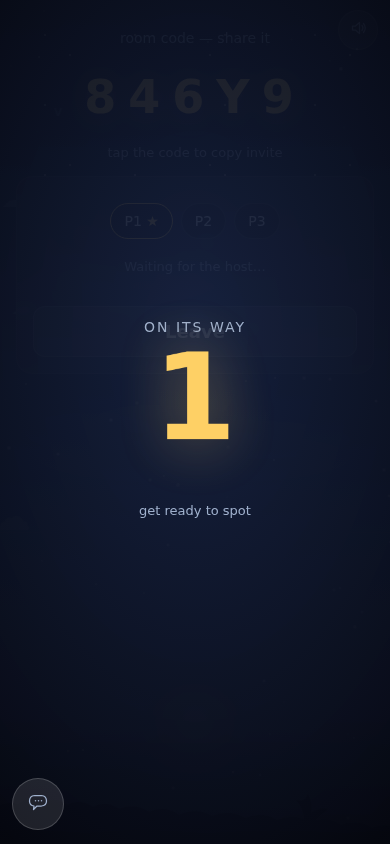
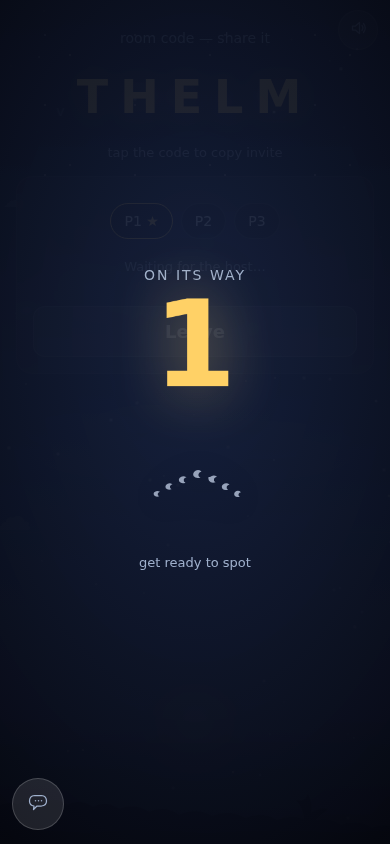
Merge flash/art-qa-v1 + promote art to default (v12)
- merged Flash branch after contract review + independent re-verification
  (rules 62/62, verify-art 18/18, graphics 12/12, chat-theme 12/12, timers 8/8 on :3200)
- live public-URL vision check passed (both themes, art=1)
- art now ON by default; ?art=0 or rarebird-art=0 escapes to emoji; v12 handshake

diff --git a/prototype/verify/verify-timers-3200.js b/prototype/verify/verify-timers-3200.js
@@ -1,0 +1,89 @@
+// Regression suite for the 2026-10-23 field bugs:
+//  1. Early "all_locked" round end must NOT shorten the next round (stale timer bug).
+//  2. Host timer setting (20/30/45s) must be honored.
+//  3. Judge flow: invalid-looking answer → checking → admitted+locked via mock judge.
+//  4. Full game still works end-to-end with the new client.
+const { chromium } = require('/data/workspace/research/node_modules/playwright-core');
+const sleep = ms => new Promise(r => setTimeout(r, ms));
+let pass = 0, fail = 0;
+const t = (n, c, d = '') => { if (c) { pass++; console.log(`  ok  ${n}`); } else { fail++; console.log(`FAIL  ${n} ${d}`); } };
+(async () => {
+  const browser = await chromium.launch({ executablePath: '/usr/bin/chromium', headless: true, args: ['--no-sandbox'] });
+  const mk = async () => { const c = await browser.newContext({ viewport: { width: 390, height: 844 } }); const p = await c.newPage(); await p.goto('http://127.0.0.1:3200/?art=1', { waitUntil: 'domcontentloaded' }); await sleep(700); return { c, p }; };
+  const waitRound = async p => { for (let k = 0; k < 80; k++) { await sleep(400); const vis = await p.locator('#s-round').isVisible().catch(() => false); const pt = (await p.locator('#prompt-text').textContent().catch(() => '')).trim(); if (vis && pt.length > 6 && !pt.includes('…') && await p.locator('#answer').isEnabled().catch(() => false)) return pt; } return ''; };
+  const waitReveal = async p => { for (let k = 0; k < 90; k++) { if (await p.locator('#s-reveal').isVisible().catch(() => false)) return true; await sleep(400); } return false; };
+  const waitResults = async p => { for (let k = 0; k < 90; k++) { if (await p.locator('#s-results').isVisible().catch(() => false)) return true; await sleep(500); } return false; };
+  const QUIZ = { 'Name a country.': ['United States','Vanuatu'], 'Name a chemical element.': ['Gold','Dubnium'], 'Name a colour.': ['Blue','Cerise'], 'Name an animal.': ['Dog','Saiga'], 'Name a fruit.': ['Apple','Mangosteen'], 'Name a sport.': ['Tennis','Curling'], 'Name a European capital city.': ['Paris','Vaduz'] };
+  const pick = (pt, i) => (QUIZ[pt] || ['France','Peru'])[i] || 'France';
+
+  console.log('== BUG 1: early all_locked end must not shorten next round ==');
+  const A = await mk(), B = await mk();
+  await A.p.locator('#nick').fill('Ada'); await A.p.locator('#btn-create').click(); await sleep(1300);
+  const code = (await A.p.locator('#room-code').textContent()).trim();
+  await B.p.locator('#nick').fill('Bob'); await B.p.locator('#join-code').fill(code); await B.p.locator('#btn-join').click(); await sleep(1100);
+  await A.p.locator('#btn-start').click();
+
+  let roundDurations = [];
+  for (let r = 0; r < 2; r++) {
+    const pt = await waitRound(A.p);
+    const t0 = Date.now();
+    await A.p.locator('#answer').fill(pick(pt, 0)); await A.p.locator('#btn-send').click();
+    await sleep(400);
+    await B.p.locator('#answer').fill(pick(pt, 1)); await B.p.locator('#btn-send').click();
+    // both locked instantly → round should end ~1.2s later (all_locked)
+    await waitReveal(A.p);
+    roundDurations.push(Date.now() - t0);
+    await sleep(8500); // let reveal play out into next round
+  }
+  t('round 1 ended early via all_locked (<5s)', roundDurations[0] < 5000, `${roundDurations[0]}ms`);
+  let log1 = '';
+  for (let k = 0; k < 10; k++) { log1 = await (await fetch('http://127.0.0.1:3200/log?t=mergecheck')).text(); if (log1.includes('all_locked')) break; await sleep(1000); }
+  t('log shows all_locked', log1.includes('all_locked'));
+
+  console.log('== round 3 (after two early ends) must run FULL duration ==');
+  // nobody answers this round: it must last the full 30s, not be assassinated
+  const pt3 = await waitRound(A.p);
+  const t3 = Date.now();
+  await waitReveal(A.p);
+  const dur3 = Date.now() - t3;
+  t('round 3 ran full ~30s (was 2.5s in the bug)', dur3 > 26000, `${dur3}ms — prompt "${pt3}"`);
+  await sleep(8500);
+
+  console.log('== round 4 (last): timer setting test skipped here; judge test ==');
+  // judge: on the current round (round 4 of 4? we started 3 rounds!) — handle by checking whatever round is live
+  const pt4 = await waitRound(A.p).catch(() => '');
+  if (pt4) {
+    // submit an out-of-catalogue but real answer → mock judge should admit it
+    await A.p.locator('#answer').fill('wombat'); await A.p.locator('#btn-send').click();
+    await sleep(3500);
+    const lockMsg = await A.p.locator('#locked-msg').textContent();
+    t('judge admitted out-of-catalogue answer', /Wombat/.test(lockMsg), lockMsg);
+    let log2 = '';
+  for (let k = 0; k < 10; k++) { log2 = await (await fetch('http://127.0.0.1:3200/log?t=mergecheck')).text(); if (log2.includes('judgeAdmit')) break; await sleep(1000); }
+    t('log shows judgeAdmit', log2.includes('judgeAdmit'));
+  } else {
+    console.log('  (no 4th round drawn — 3-round game; judge covered below)');
+  }
+  await waitResults(A.p);
+  t('results reached', true);
+  await A.p.screenshot({ path: 'verify_upgrade_results.png' });
+
+  console.log('== BUG 2: host timer setting (20s) ==');
+  const C = await mk();
+  await C.p.locator('#nick').fill('Solo');
+  await C.p.locator('#btn-create').click(); await sleep(1300);
+  // cycle timer stepper 30→20
+  await C.p.locator('#btn-timer').click(); await sleep(200);
+  t('timer stepper shows 20s', /20s/.test(await C.p.locator('#btn-timer').textContent()));
+  await C.p.locator('#btn-start').click(); await sleep(1000);
+  const pt = await waitRound(C.p);
+  const tc0 = Date.now();
+  await waitReveal(C.p);
+  const dur = Date.now() - tc0;
+  t('20s setting honored (round ~20s)', dur > 17000 && dur < 27000, `${dur}ms prompt "${pt}"`);
+  await C.p.screenshot({ path: 'verify_upgrade_round.png' }).catch(()=>{});
+
+  console.log(`\n${pass} passed, ${fail} failed`);
+  await browser.close();
+  process.exit(fail ? 1 : 0);
+})().catch(e => { console.error('ERR', e); process.exit(1); });

diff --git a/prototype/public/index.html b/prototype/public/index.html
@@ -284,11 +284,11 @@
   <div class="banner" id="cd-hint">get ready to spot</div>
 </div>
 <script type="module">
-import * as FX from "./fx.js?v=11";
-import { ART } from "./art.js?v=11";
-const V = 11; // client version — must match server CLIENT_VERSION
+import * as FX from "./fx.js?v=12";
+import { ART } from "./art.js?v=12";
+const V = 12; // client version — must match server CLIENT_VERSION
 // art flag: ?art=1 or localStorage rarebird-art=1 (🎨 lobby toggle); ?art=0 forces off
-const ART_ON = new URLSearchParams(location.search).get('art') === '1' || (localStorage.getItem('rarebird-art') === '1' && new URLSearchParams(location.search).get('art') !== '0');
+const ART_ON = new URLSearchParams(location.search).get('art') !== '0' && (new URLSearchParams(location.search).get('art') === '1' || localStorage.getItem('rarebird-art') !== '0'); // art DEFAULT ON since v12; ?art=0 or rarebird-art=0 escapes to emoji
 await ART.init(ART_ON);
 FX.ambient('birds');
 
